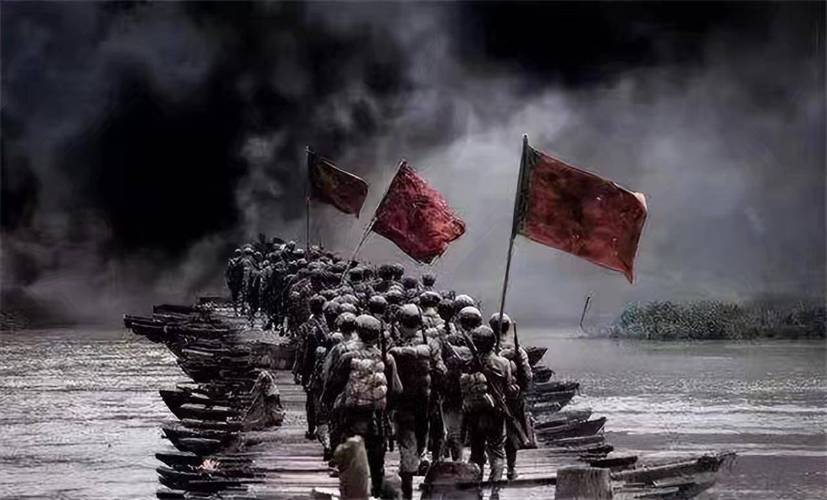
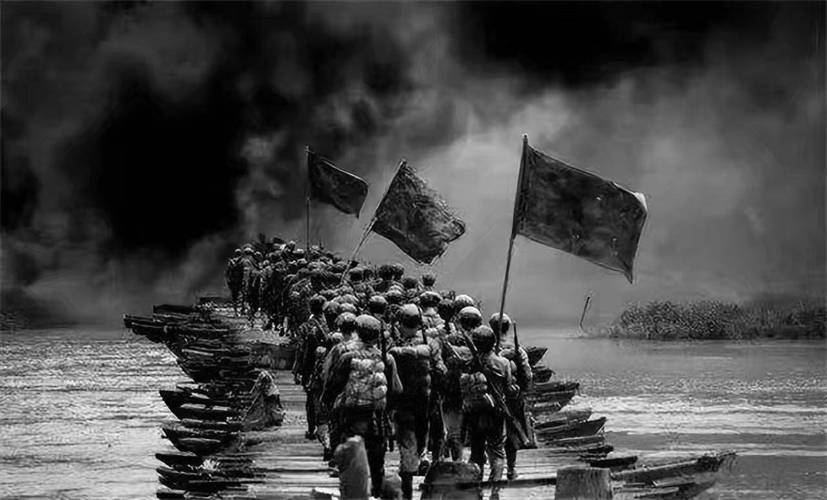
ldy: 手机出图卡顿专项——照片显影去blur改透明度淡入(手机端零滤镜)、显影绑img.onload防图未到先显影;素材1.9MB→776KB(门图精准缩放+存灰度、PNG立绘/门板转WebP);预载分三批防并发抢带宽;img加decoding=async

Changed region(s): [[0.6348, 0.33, 0.786, 0.54], [0.4534, 0.33, 0.5744, 0.51]]

diff --git a/levels/ldy/level.js b/levels/ldy/level.js
@@ -275,9 +275,12 @@
      写死后 setPhoto 与预载捂热的是同一个 URL，点开即显 */
   var DOOR_EXT = { 1: 'jpg', 2: 'jpg', 3: 'webp', 4: 'jpg', 5: 'jpg', 6: 'jpg', 7: 'jpg', 8: 'jpg' };
   function setPhoto(area, i) {
-    area.innerHTML = '<div class="photo-stack">' + doorArt(i) + '<img class="door-photo" alt=""></div>';
+    area.innerHTML = '<div class="photo-stack">' + doorArt(i) + '<img class="door-photo" alt="" decoding="async"></div>';
     var img = area.querySelector('.door-photo');
     if (!img) return;
+    /* 图真的解码完成再加 .on 触发显影（桌面是 blur→sharp，手机是 opacity 淡入）。
+       提前显影的话，冷启动时图还在路上，等它到了会毫无过渡地蹦出来。 */
+    img.addEventListener('load', function () { img.classList.add('on'); });
     /* 加载失败自动回退：img 移除后透出手绘插画 */
     img.addEventListener('error', function () {
       if (img.parentNode) img.parentNode.removeChild(img);
@@ -285,17 +288,27 @@
     img.src = BASE + 'assets/door' + (i + 1) + '.' + (DOOR_EXT[i + 1] || 'jpg');
   }
 
-  /* 图片预载：进场后就把全部门图和人物立绘并行拉进缓存，点开门的那一刻不等网络 */
-  (function preloadArt() {
-    var urls = ['assets/door-frame.png', 'assets/door9.jpg',
-                'assets/soldier.png', 'assets/soldier-salute.png',
-                'assets/student.png', 'assets/student-salute.png'];
-    for (var n = 1; n <= 8; n++) urls.push('assets/door' + n + '.' + (DOOR_EXT[n] || 'jpg'));
+  /* 图片预载：分三批，别用十几个并发把手机带宽占满。
+     第一批（立刻）：门板 + 前两扇门的照片，玩家最早看到的；
+     第二批/第三批（延后）：其余门图与人物立绘，等开场动画跑起来之后再慢慢灌。
+     手机上同时开十几个连接会互相拖，反而让第一张要用的图更慢。 */
+  function preloadBatch(urls) {
     for (var f = 0; f < urls.length; f++) {
       var im = new Image();
       im.src = BASE + urls[f];
     }
-  })();
+  }
+  function preloadArt() {
+    preloadBatch(['assets/door-frame.webp', 'assets/door1.jpg', 'assets/door2.jpg']);
+    setTimeout(function () {
+      preloadBatch(['assets/door3.webp', 'assets/door4.jpg', 'assets/door5.jpg', 'assets/door6.jpg']);
+    }, 2600);
+    setTimeout(function () {
+      preloadBatch(['assets/door7.jpg', 'assets/door8.jpg', 'assets/door9.jpg',
+                    'assets/soldier.webp', 'assets/soldier-salute.webp',
+                    'assets/student.webp', 'assets/student-salute.webp']);
+    }, 6000);
+  }
 
   /* ============ Web Audio：拟真打字机 / 音效 ============ */
   var audio = { ctx: null, noise: null };
@@ -947,7 +960,7 @@
         var door = el('div', 'door');
         door.style.left = x + 'px';
         door.style.top  = y + 'px';
-        door.style.backgroundImage = 'url(' + BASE + 'assets/door-frame.png)';
+        door.style.backgroundImage = 'url(' + BASE + 'assets/door-frame.webp)';
         door.style.animationDelay = (i * 0.35) + 's, ' + (i * 0.4) + 's';
         door.innerHTML =
           '<div class="star-halo"></div>' +
@@ -1167,7 +1180,7 @@
         '</div>' +
         '<div class="nd-cap">这一扇，留给现在的你</div>' +
         '<div class="nd-tip">按 住 门 ，往 右 推 开</div>';
-      /* 第九门专用门图：火炬传火（assets/door9.jpg），八门仍用 door-frame.png */
+      /* 第九门专用门图：火炬传火（assets/door9.jpg），八门仍用 door-frame.webp */
       wrap.querySelector('.nd-door').style.backgroundImage = 'url(' + BASE + 'assets/door9.jpg)';
       sceneDoors.appendChild(wrap);
 
@@ -2021,11 +2034,11 @@
       var figs = el('div', 'figures');
       /* 双层图：fa = 常姿帧，fb = 动作帧（敬礼），换帧即交叉淡入 */
       var soldier = el('div', 'figure soldier',
-        '<img class="fa" src="' + BASE + 'assets/soldier.png" alt="老兵">' +
-        '<img class="fb" src="' + BASE + 'assets/soldier-salute.png" alt="">');
+        '<img class="fa" src="' + BASE + 'assets/soldier.webp" alt="老兵">' +
+        '<img class="fb" src="' + BASE + 'assets/soldier-salute.webp" alt="">');
       var student = el('div', 'figure student',
-        '<img class="fa" src="' + BASE + 'assets/student.png" alt="少年">' +
-        '<img class="fb" src="' + BASE + 'assets/student-salute.png" alt="">');
+        '<img class="fa" src="' + BASE + 'assets/student.webp" alt="少年">' +
+        '<img class="fb" src="' + BASE + 'assets/student-salute.webp" alt="">');
       figs.appendChild(soldier);
       figs.appendChild(student);
       sceneRelay.appendChild(figs);
@@ -2766,6 +2779,7 @@
     /* ---------- 启动 ---------- */
     buildIntro();
     sceneIntro.classList.remove('hidden');
+    preloadArt();   /* 开场动画跑起来之后再分批灌图，别跟首屏抢带宽 */
 
     /* ---------- 卸载 ---------- */
     return {

diff --git a/levels/ldy/style.css b/levels/ldy/style.css
@@ -2437,7 +2437,28 @@ html, body {
   transition: filter 1.4s ease;
   z-index: 2;
 }
-.ldy21 .door-modal .photo.clear .door-photo { filter: blur(0) grayscale(1) contrast(1.05); }
+/* 显影的触发绑在图片「真的加载完」那一刻（.on 由 JS 在 onload 里加），
+   不再固定 60ms 后无条件变清晰——否则图还在路上就已经"显"完了，
+   等它姗姗来迟时会毫无过渡地蹦出来。 */
+.ldy21 .door-modal .photo.clear .door-photo.on { filter: blur(0) grayscale(1) contrast(1.05); }
+
+/* 手机/平板上「显影」不用模糊滤镜。
+   一个满幅 img 上挂 blur(10px) + 1.4s 过渡，等于每帧做一次高斯模糊重算，
+   中低端安卓和微信内置浏览器会直接卡在出图那几秒（用户反馈的"卡着出不了图"）。
+   改成透明度淡入 + 极轻微缩放：观感同样是照片慢慢显影，但走的是合成层，几乎零开销。 */
+@media (pointer: coarse) {
+  .ldy21 .door-modal .photo .door-photo {
+    filter: grayscale(1);
+    opacity: 0;
+    transform: scale(1.02);
+    transition: opacity .85s ease, transform 1.6s ease;
+  }
+  .ldy21 .door-modal .photo.clear .door-photo.on {
+    filter: grayscale(1);
+    opacity: 1;
+    transform: scale(1);
+  }
+}
 
 /* ============ 触屏设备降载（手机防卡） ============ */
 .ldy21.touch { -webkit-tap-highlight-color: transparent; }

diff --git a/levels/ldy/index.html b/levels/ldy/index.html
@@ -11,10 +11,10 @@
 <meta http-equiv="Pragma" content="no-cache">
 <meta http-equiv="Expires" content="0">
 <title>星火相传 · 长征：拾光</title>
-<link rel="stylesheet" href="style.css?v=20261104e">
+<link rel="stylesheet" href="style.css?v=20261104f">
 </head>
 <body>
 <div id="stage"></div>
-<script src="level.js?v=20261104e"></script>
+<script src="level.js?v=20261104f"></script>
 </body>
 </html>
